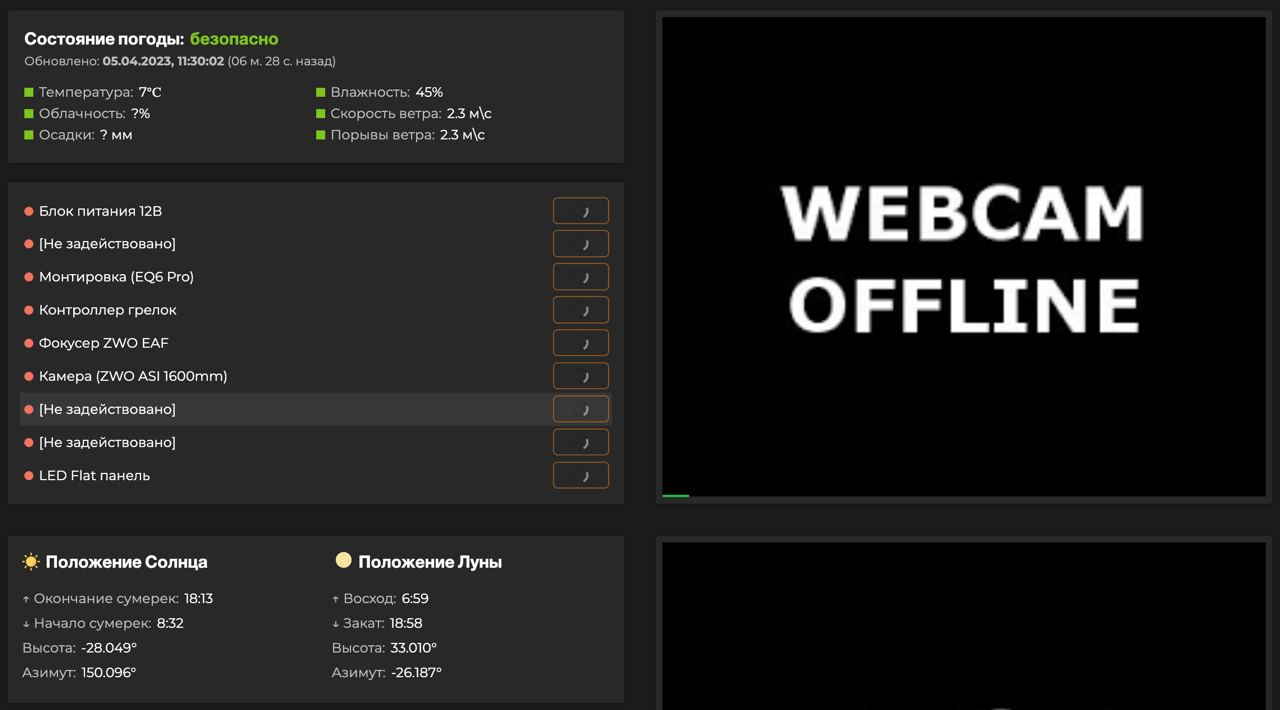
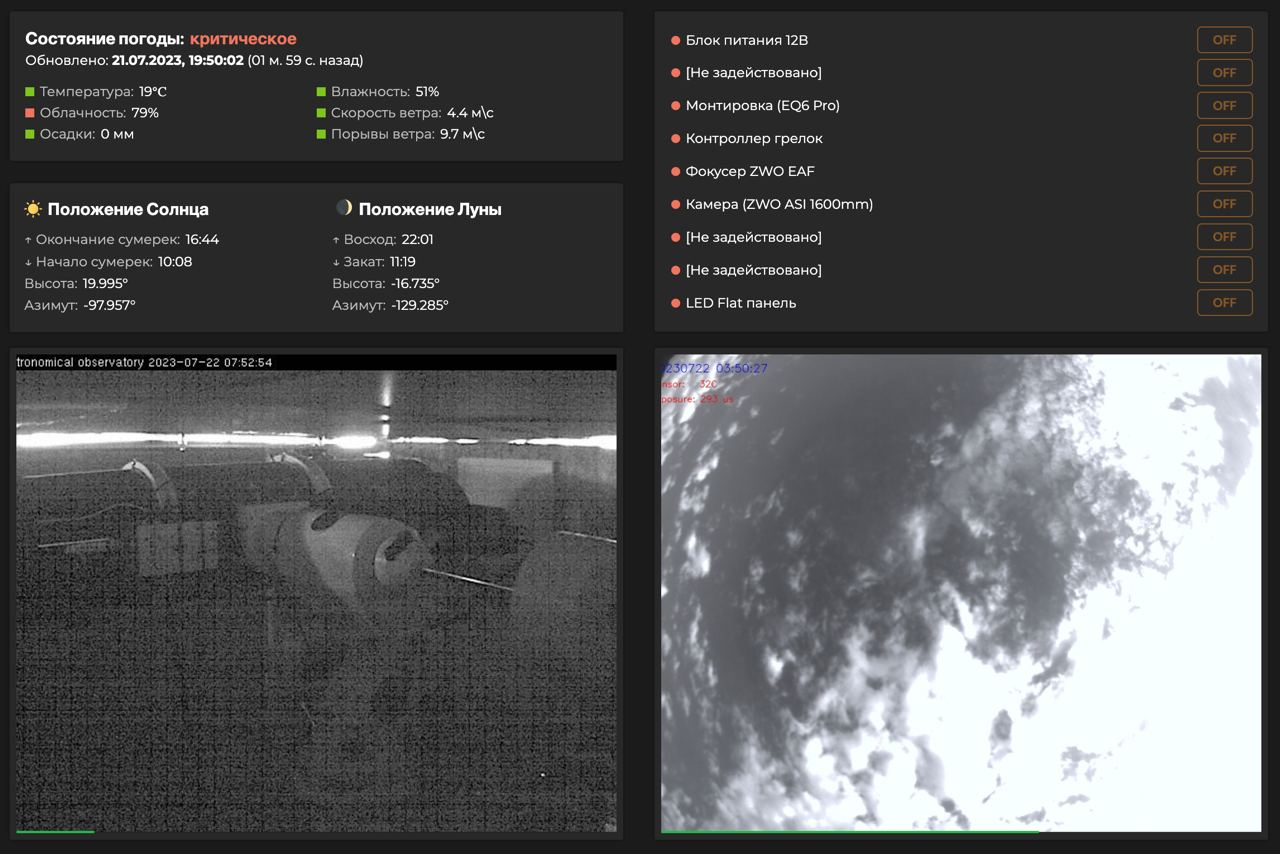
Implemented dashboard UI (#76)

diff --git a/client/pages/dashboard.tsx b/client/pages/dashboard.tsx
@@ -33,6 +33,13 @@ const Dashboard: NextPage = () => (
                 mobile={16}
             >
                 <Weather />
+                <AstronomyCalc />
+            </Grid.Column>
+            <Grid.Column
+                computer={8}
+                tablet={8}
+                mobile={16}
+            >
                 <RelayList />
             </Grid.Column>
             <Grid.Column
@@ -43,15 +50,6 @@ const Dashboard: NextPage = () => (
                 <Camera
                     cameraURL={`${process.env.NEXT_PUBLIC_API_HOST}/camera/2`}
                 />
-            </Grid.Column>
-            <Grid.Column
-                computer={8}
-                tablet={8}
-                mobile={16}
-            >
-                <AstronomyCalc />
-                <br />
-                {/*<Sensors />*/}
             </Grid.Column>
             <Grid.Column
                 computer={8}

diff --git a/client/components/astronomy-calc/styles.module.sass b/client/components/astronomy-calc/styles.module.sass
@@ -1,6 +1,9 @@
 @import @/styles/variables.sass
 
 .astronomyCalc
+  @media only screen and (max-width: 768px)
+    margin-bottom: $sectionMarginBottom
+
   .icon, .moon
     width: 16px
     vertical-align: middle
@@ -13,11 +16,11 @@
 
   .key
     color: $text-second
-    margin-bottom: 5px
+    margin-bottom: 2.5px
 
   .val
     color: $text-main
     margin-left: 5px
 
   .sectionTitle
-    margin-bottom: 15px
+    margin-bottom: 10px

diff --git a/client/components/relay-list/styles.module.sass b/client/components/relay-list/styles.module.sass
@@ -18,7 +18,9 @@
 
 .relayList
   padding: 11px !important
-  margin-bottom: $sectionMarginBottom
+
+  @media only screen and (max-width: 768px)
+    margin-bottom: $sectionMarginBottom
 
   &.loader
     height: 280px
